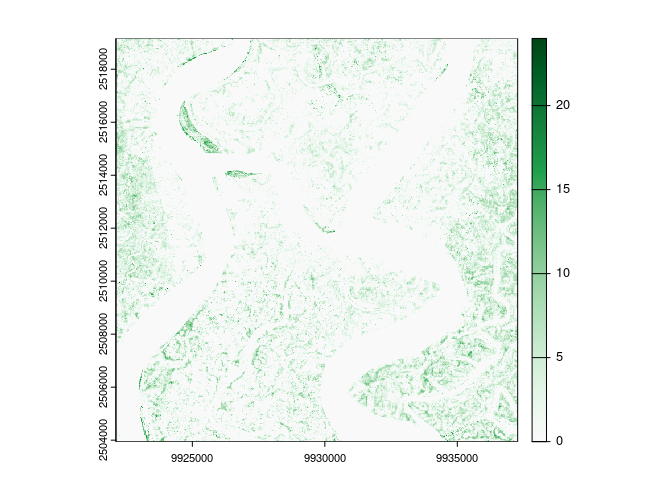
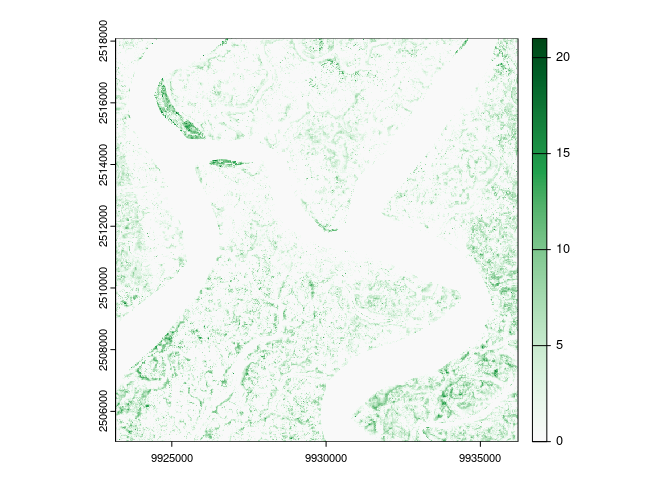
readme updated

Changed region(s): [[0.125, 0.0312, 0.8438, 0.9688], [0.3125, 0.4062, 0.375, 0.4688], [0.5625, 0.25, 0.5938, 0.2812]]

diff --git a/README.md b/README.md
@@ -37,7 +37,7 @@ library(chmloader)
 
 sundarbans <- sf::st_point(c(89.2, 22.0)) |>
   sf::st_sfc(crs = 4326) |>
-  sf::st_buffer(7000)
+  sf::st_buffer(6000)
 
 sundarbans_chm <- download_chm(
   sundarbans,
